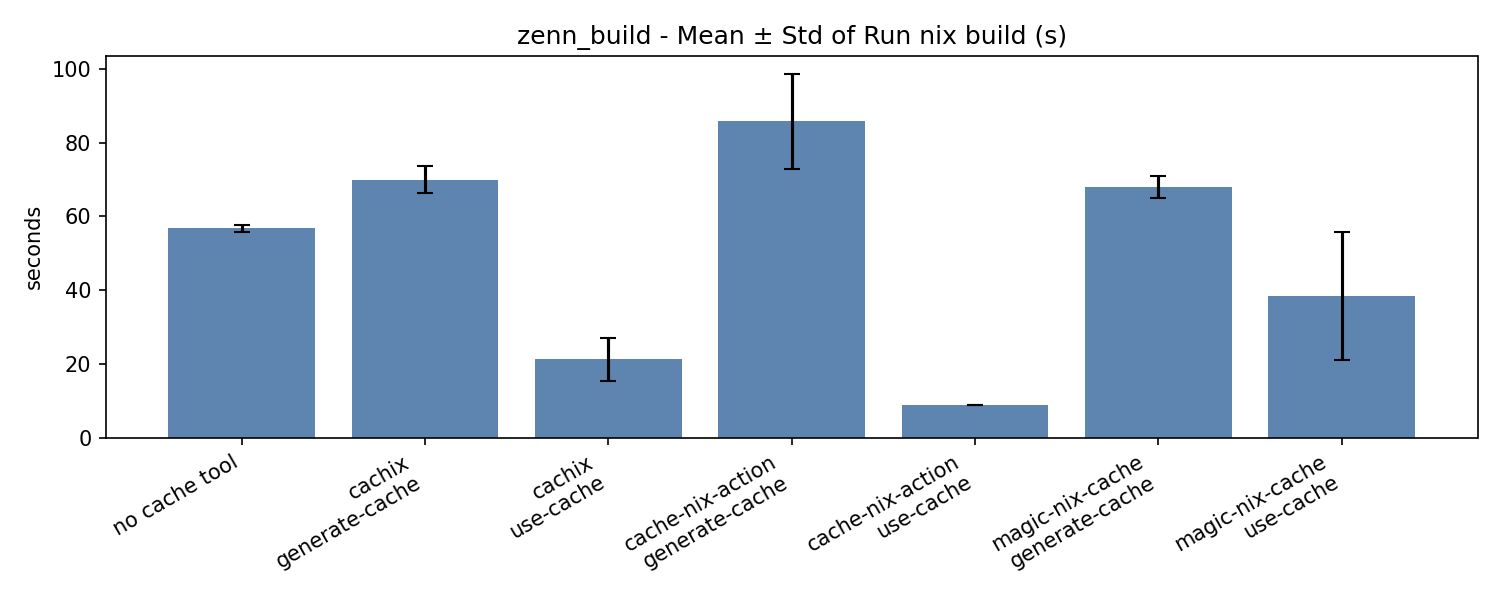
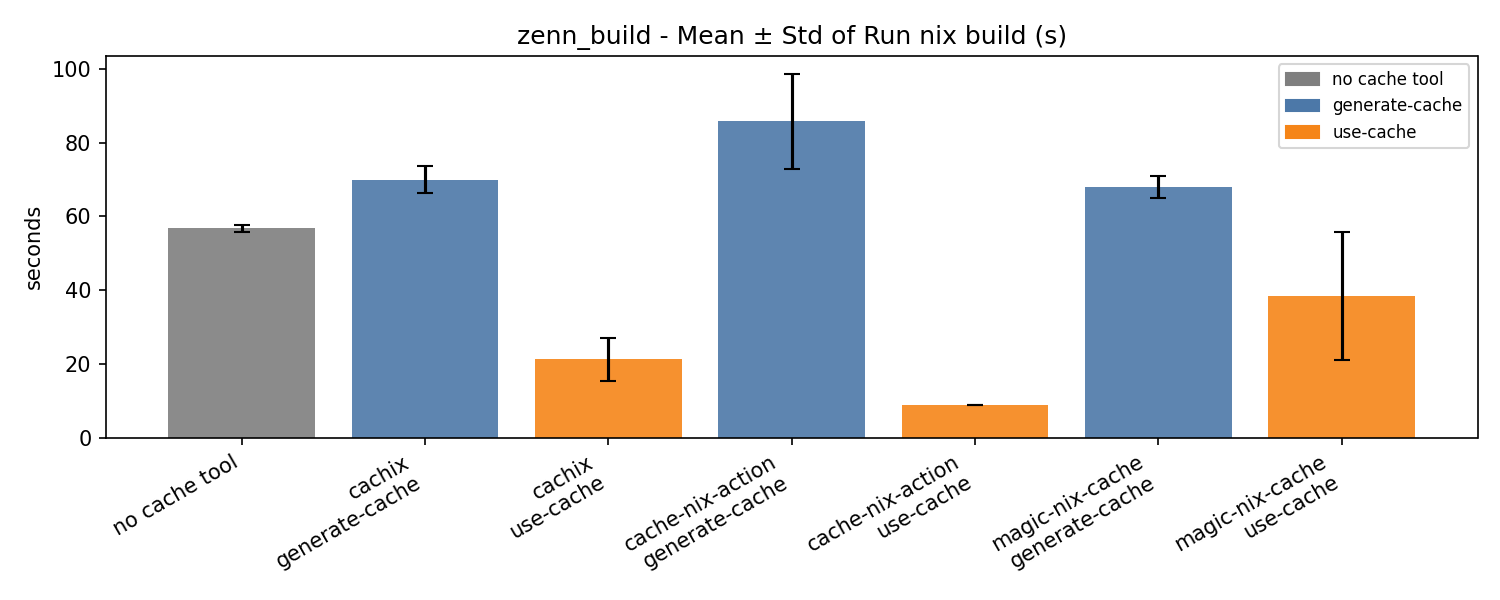
phase毎に棒グラフを色分け

diff --git a/reports/main.py b/reports/main.py
@@ -227,6 +227,11 @@ def plot_errorbars_job_totals(rows: List[BuildRow], job_totals: Dict[tuple, floa
         labels = []
         means = []
         stds = []
+        colors = []
+        def color_for(tool: str, phase: str) -> str:
+            if tool == "none":
+                return "#7F7F7F"
+            return "#4C78A8" if phase == "generate-cache" else "#F58518"
         for ph, tool in order:
             totals = []
             for r in jrows:
@@ -240,15 +245,26 @@ def plot_errorbars_job_totals(rows: List[BuildRow], job_totals: Dict[tuple, floa
             labels.append(_label(tool, ph))
             means.append(m)
             stds.append(std(totals) or 0.0)
+            colors.append(color_for(tool, ph))
         if not means:
             continue
         x = np.arange(len(means))
         try:
             plt.figure(figsize=(10, 4))
-            plt.bar(x, means, yerr=stds, capsize=4, color="#72B7B2", alpha=0.9)
+            plt.bar(x, means, yerr=stds, capsize=4, color=colors, alpha=0.9)
             plt.title(f"{job} - Mean ± Std of job total (s)")
             plt.ylabel("seconds")
             plt.xticks(x, labels, rotation=30, ha="right")
+            try:
+                import matplotlib.patches as mpatches
+                legend_patches = [
+                    mpatches.Patch(color="#7F7F7F", label="no cache tool"),
+                    mpatches.Patch(color="#4C78A8", label="generate-cache"),
+                    mpatches.Patch(color="#F58518", label="use-cache"),
+                ]
+                plt.legend(handles=legend_patches, fontsize=8)
+            except Exception:
+                pass
             plt.tight_layout()
             plt.savefig(out_dir / f"errorbars_job_total_{job}.png", dpi=150)
             plt.close()
@@ -304,6 +320,12 @@ def plot_errorbars_means(rows: List[BuildRow], summary_csv: Path, out_dir: Path)
         labels = []
         means = []
         stds = []
+        colors = []
+        def color_for(tool: str, phase: str) -> str:
+            # 3系統: no cache tool / generate / use
+            if tool == "none":
+                return "#7F7F7F"  # gray
+            return "#4C78A8" if phase == "generate-cache" else "#F58518"
         for ph, tool in order:
             m_s = data.get((job, tool, ph))
             if not m_s or m_s[0] is None:
@@ -311,16 +333,27 @@ def plot_errorbars_means(rows: List[BuildRow], summary_csv: Path, out_dir: Path)
             labels.append(_label(tool, ph))
             means.append(m_s[0])
             stds.append(m_s[1] or 0.0)
+            colors.append(color_for(tool, ph))
         if not means:
             continue
         import numpy as np
         x = np.arange(len(means))
         try:
             plt.figure(figsize=(10, 4))
-            plt.bar(x, means, yerr=stds, capsize=4, color="#4C78A8", alpha=0.9)
+            plt.bar(x, means, yerr=stds, capsize=4, color=colors, alpha=0.9)
             plt.title(f"{job} - Mean ± Std of Run nix build (s)")
             plt.ylabel("seconds")
             plt.xticks(x, labels, rotation=30, ha="right")
+            try:
+                import matplotlib.patches as mpatches
+                legend_patches = [
+                    mpatches.Patch(color="#7F7F7F", label="no cache tool"),
+                    mpatches.Patch(color="#4C78A8", label="generate-cache"),
+                    mpatches.Patch(color="#F58518", label="use-cache"),
+                ]
+                plt.legend(handles=legend_patches, fontsize=8)
+            except Exception:
+                pass
             plt.tight_layout()
             plt.savefig(out_dir / f"errorbars_build_{job}.png", dpi=150)
             plt.close()
